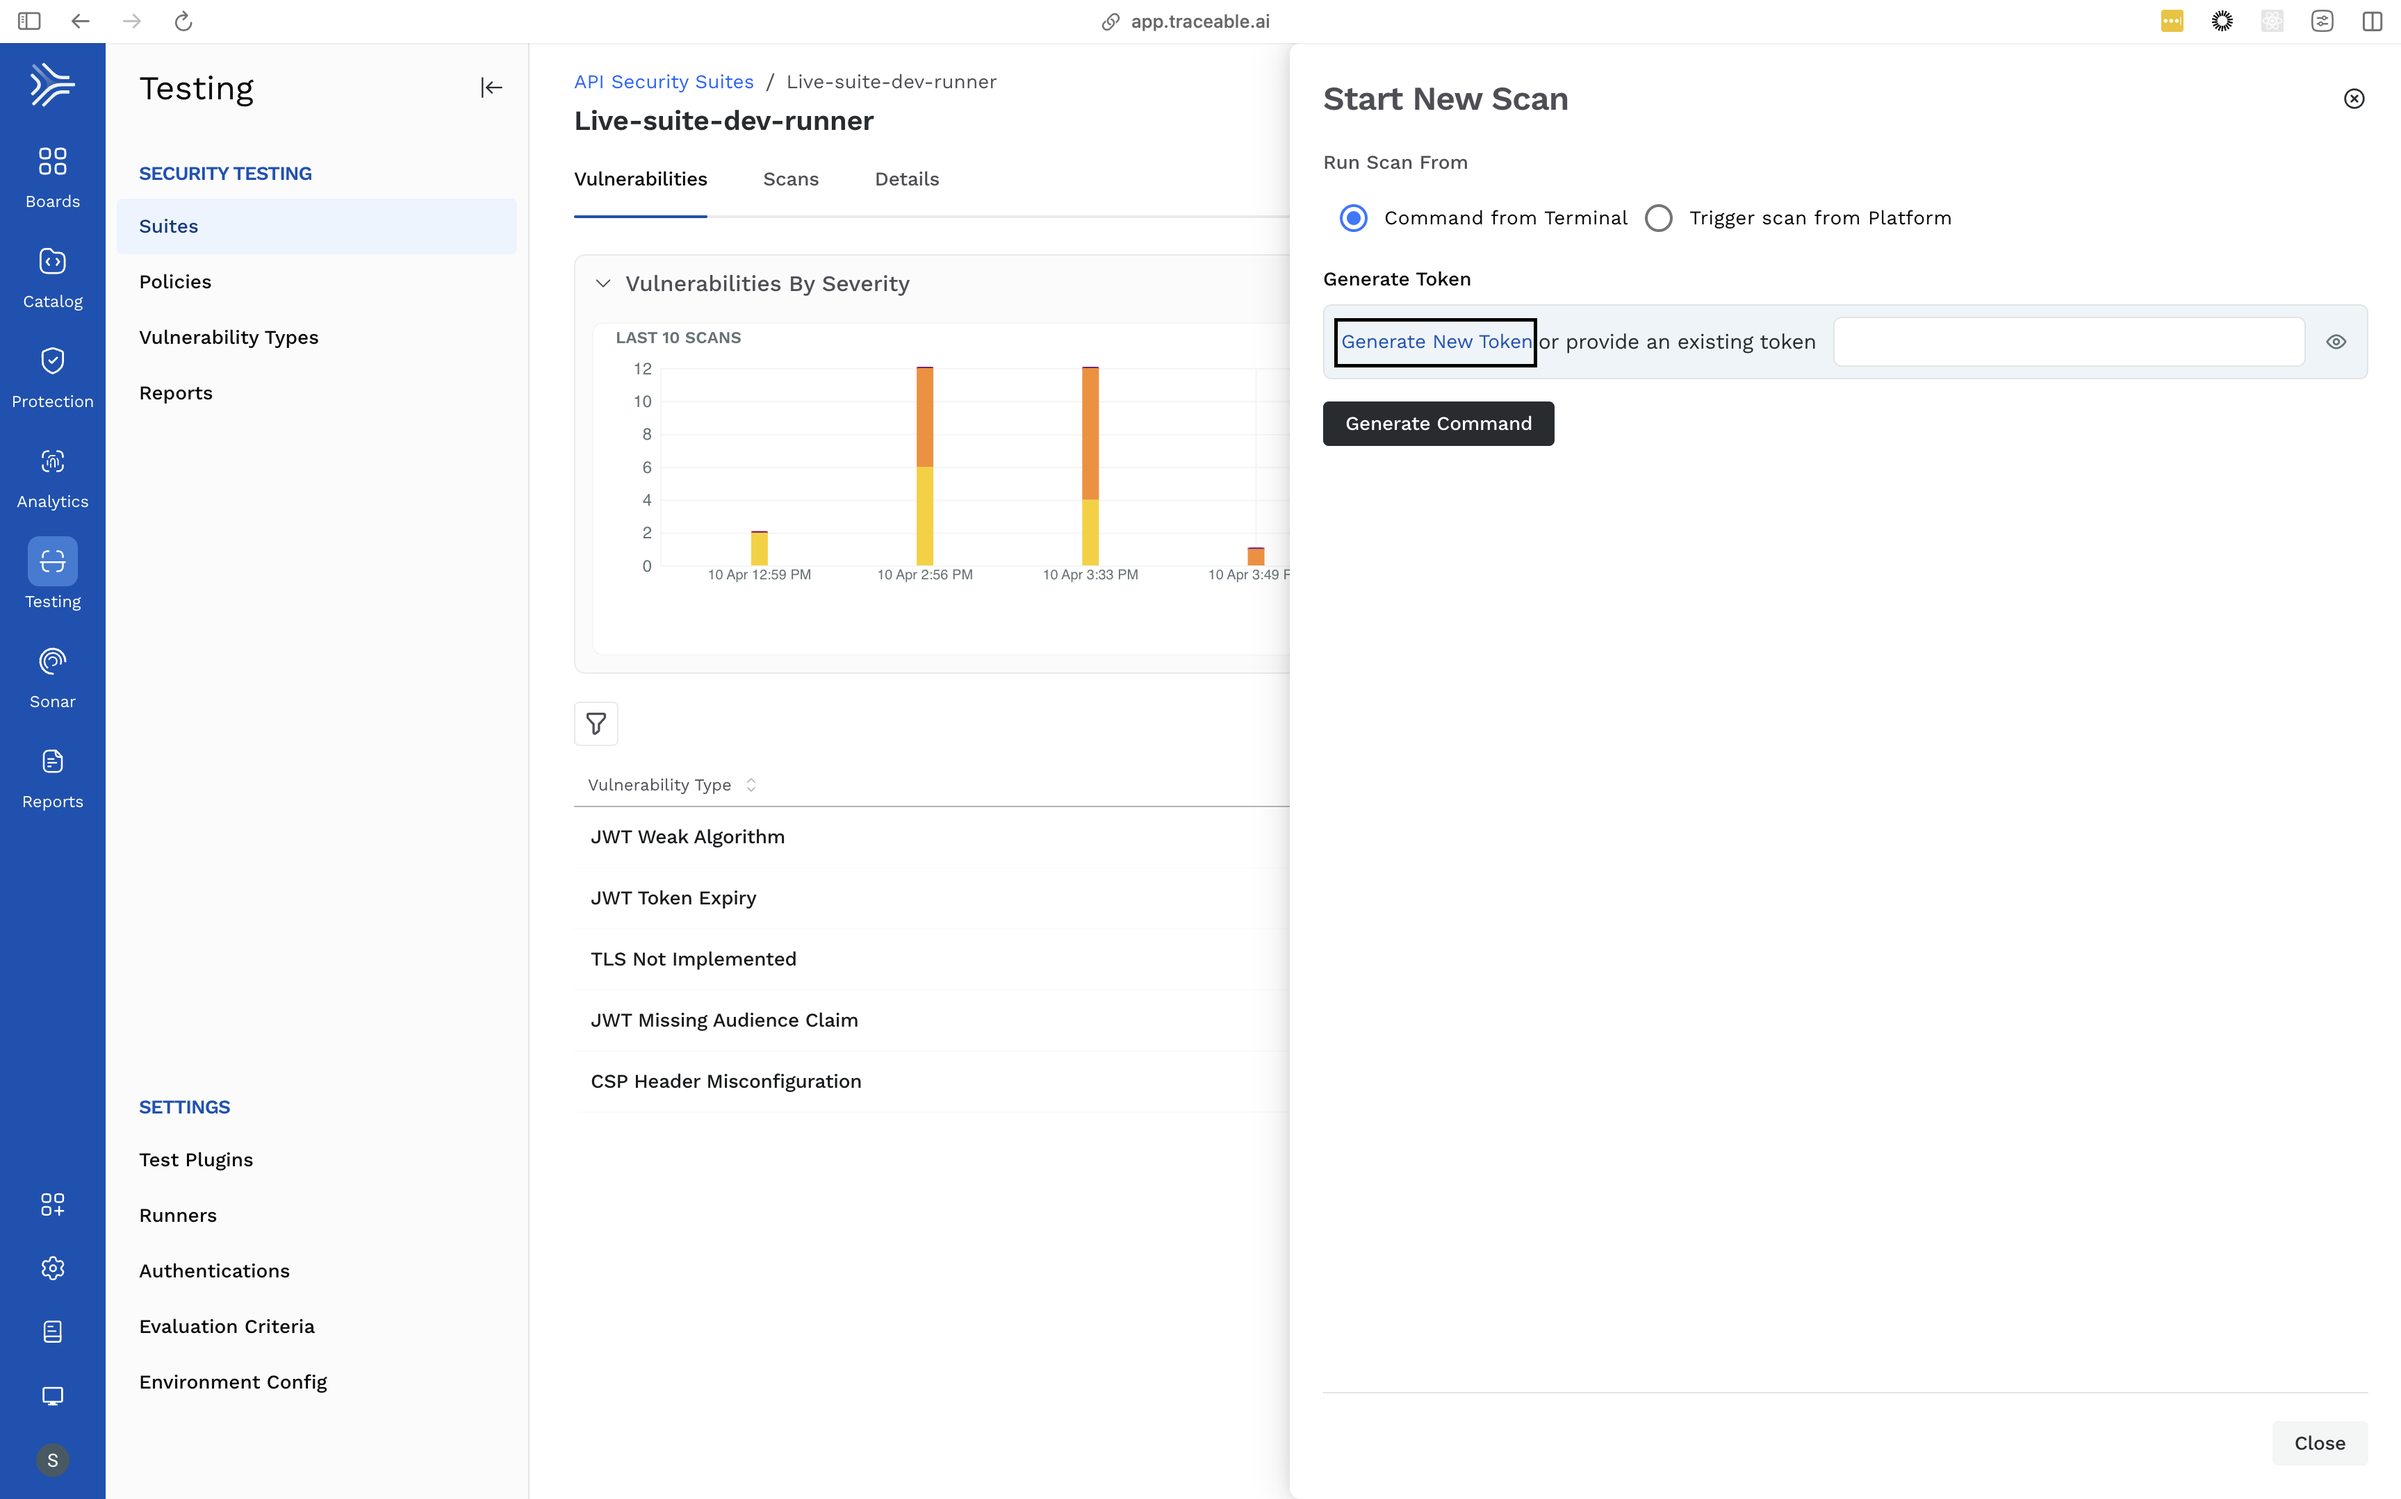
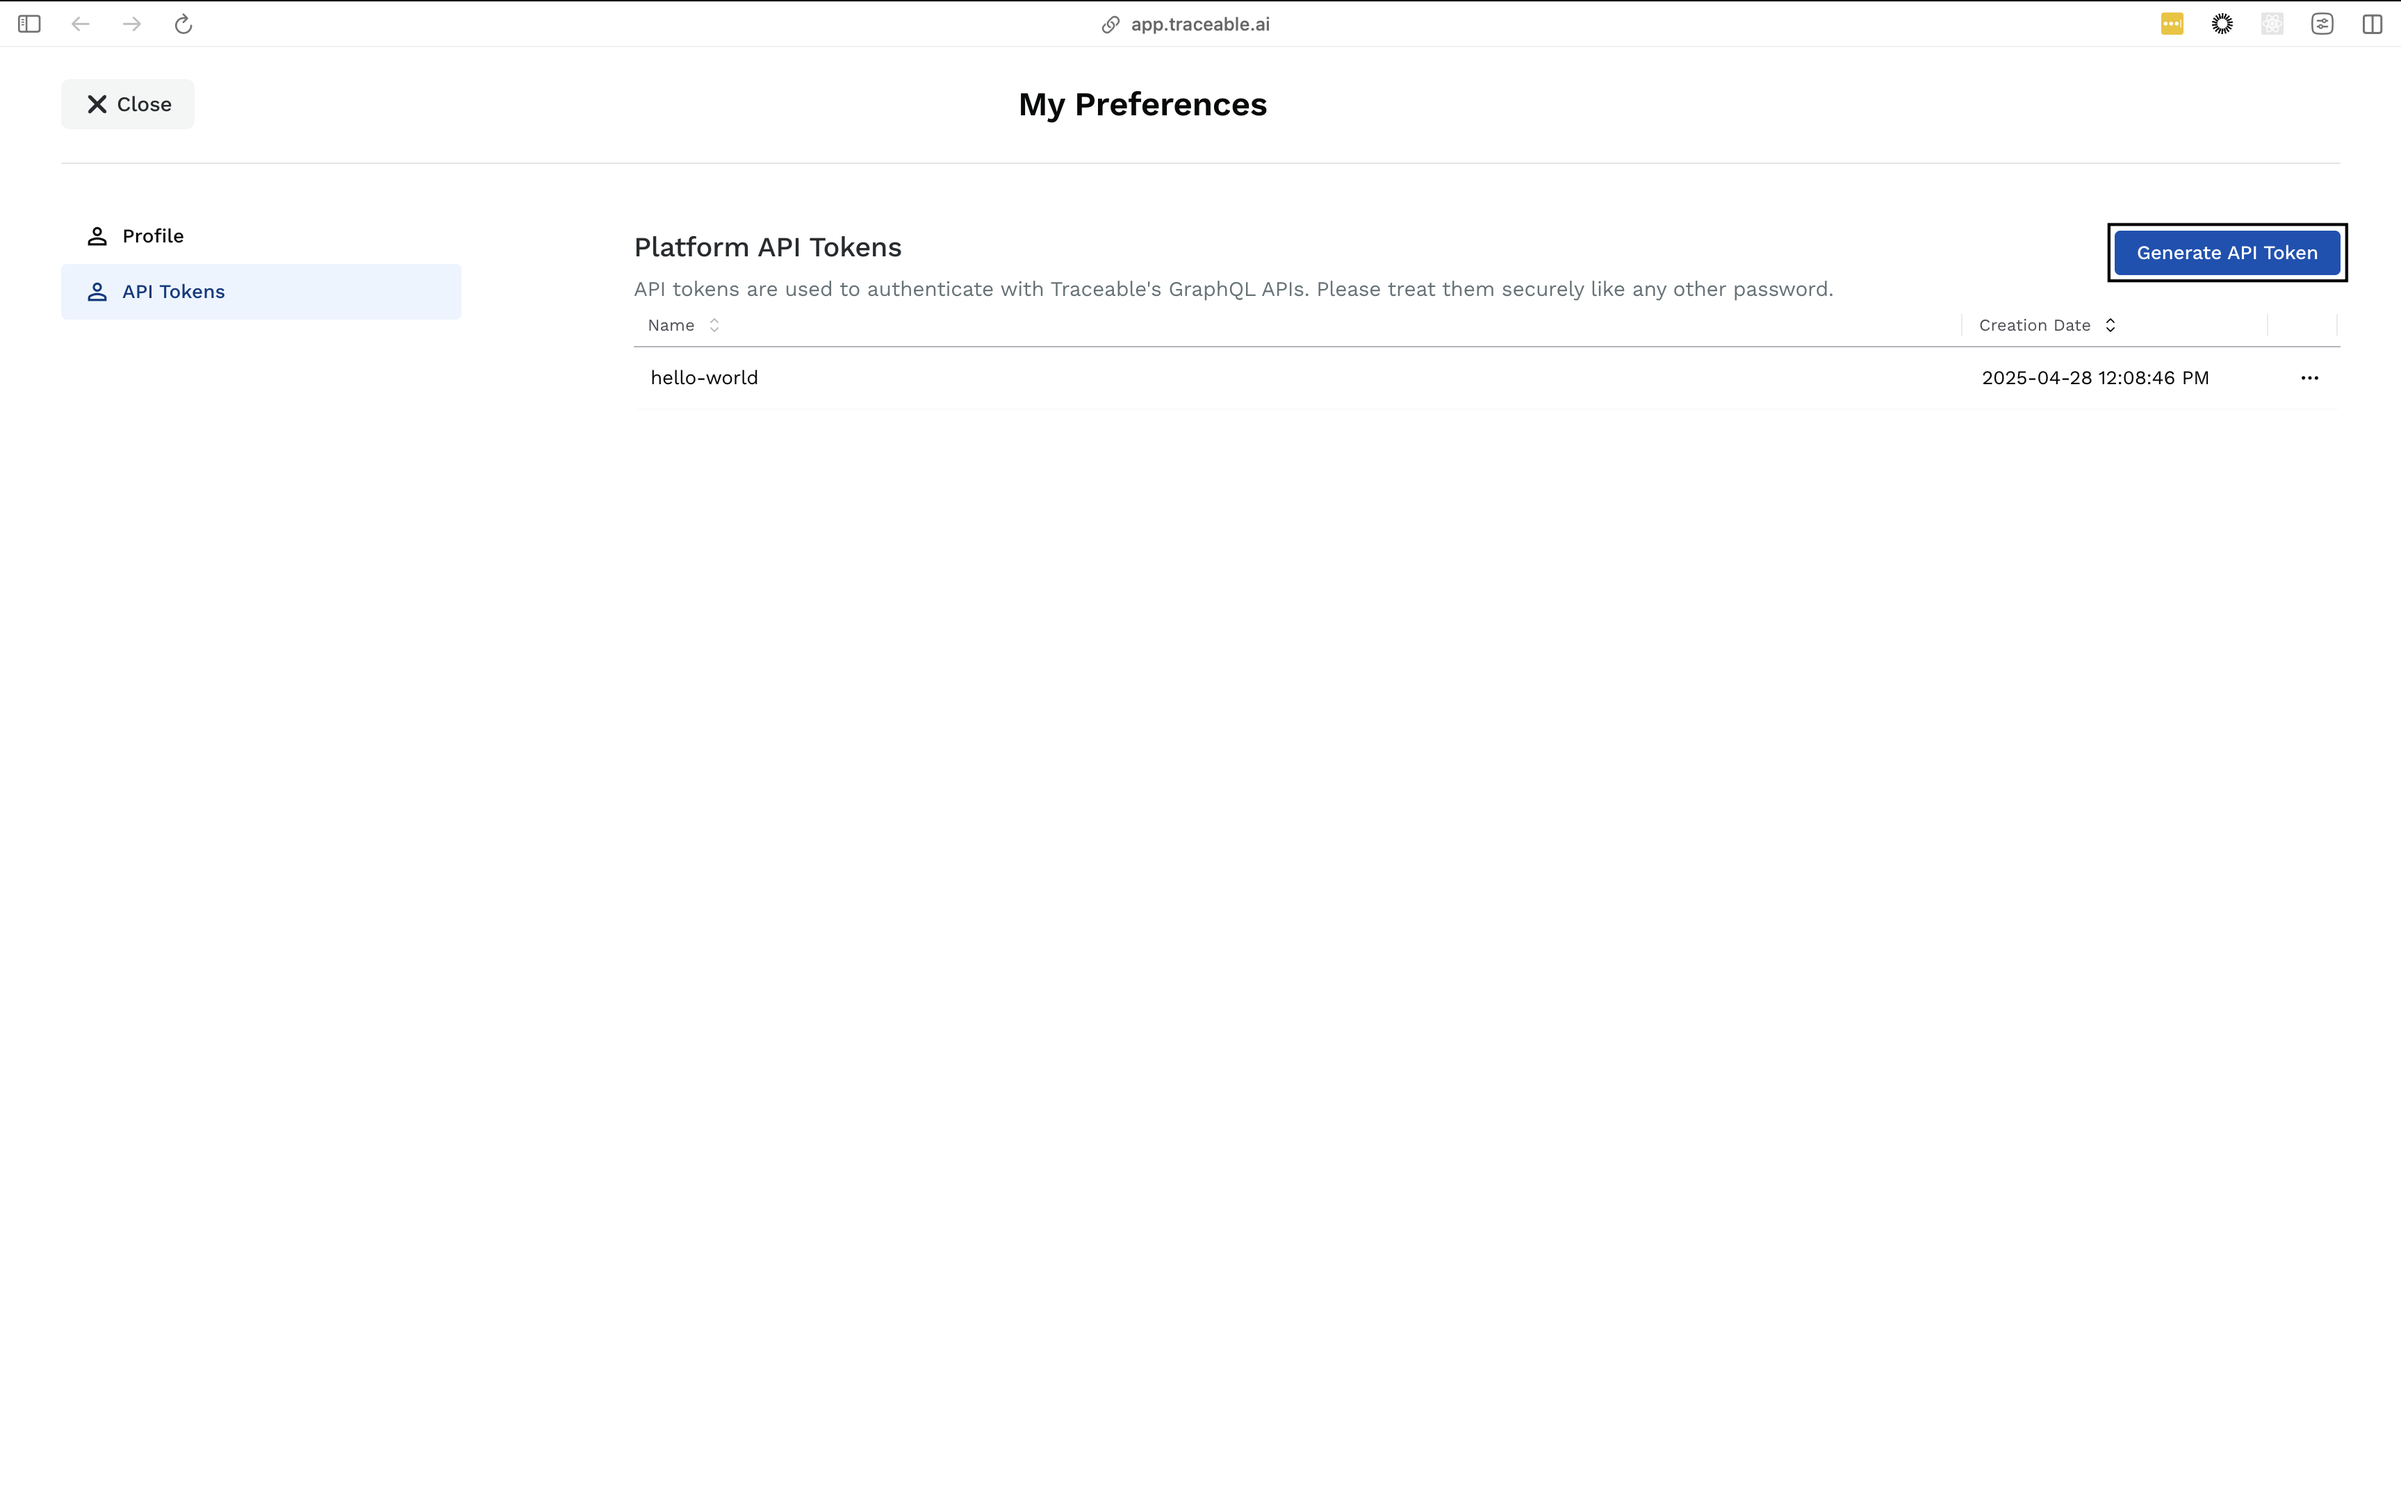
updated README

diff --git a/README.md b/README.md
@@ -33,14 +33,14 @@ This Jenkins plugin for AST allows to run AST scan as a job on local jenkins ins
 
 ### 2. Generate API Token
 
-To get your API token go to [app.traceable.ai](https://app.traceable.ai/) and login to the Traceable dashboard.
+To get your API token go to [https://app.traceable.ai/preferences/api-tokens](https://app.traceable.ai/preferences/api-tokens) and login to your Traceable account.
 <ol>
-<li>Go to the <strong>Testing</strong> tab.</li>
-<li>Select the Suite you want to run the scan for.</li>
-<li>Click on the <strong>Start Scan</strong> button on the top right corner.</li>
-<img src="docs/images/AST_Scan_Suite.png"/>
-<li>In the <strong>Start New Scan</strong> window, click on <strong>Generate New Token</strong> button to generate a new API token.</li>
+<li>Click on <strong>Generate API Token</strong>.</li>
 <img src="docs/images/Generate_New_Token.png"/>
+<li>In the dialog-box that appears, type in the name of the token and click on the <strong>Generate</strong> button.</li>
+<img src="docs/images/Generate_Token_Dialog.png"/>
+<li>Copy the generated API token to be used in the next step.</li>
+
 </ol>
 
 For more detailed instructions to configure a scan and generate API tokens, see [API Token Generation Guide](https://docs.traceable.ai/docs/suites#creating-a-suite-or-quick-scan).
